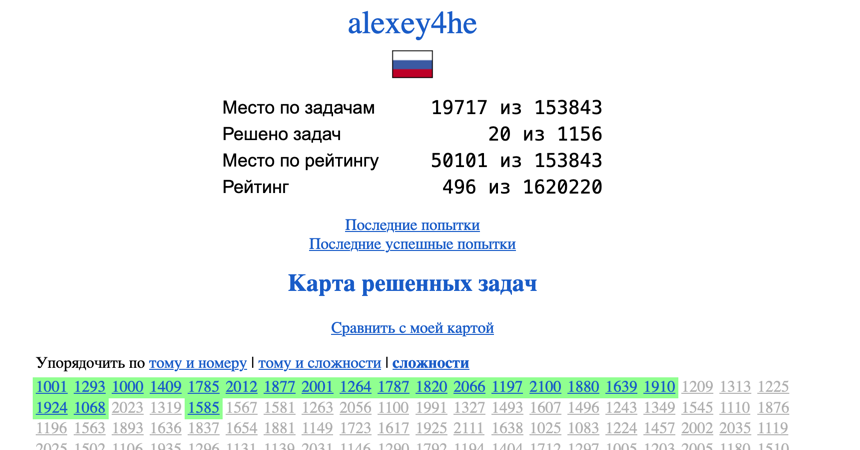
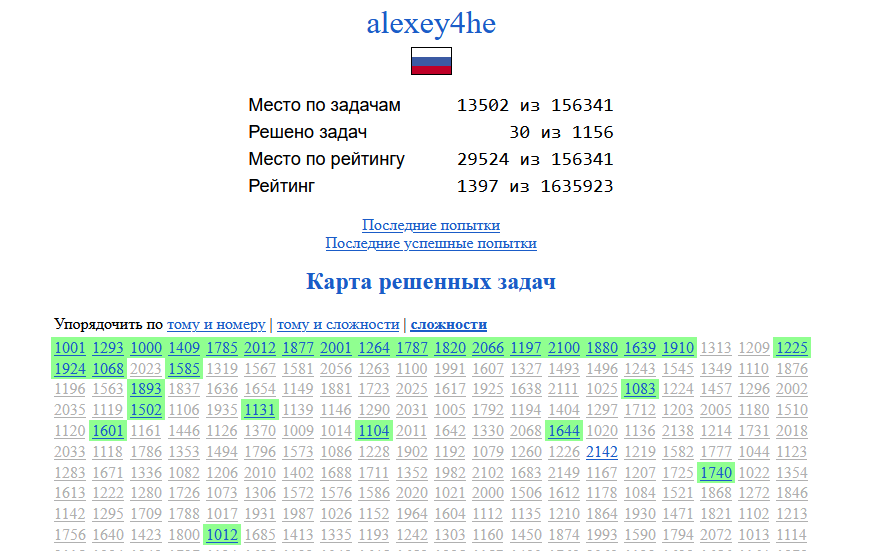
Solving 10 task with the Timus

Changed region(s): [[0.0302, 0.0, 0.9372, 1.0], [0.2419, 0.4044, 0.3326, 0.4356]]

diff --git a/src/timus/task_1893/Main.java b/src/timus/task_1893/Main.java
@@ -1,0 +1,44 @@
+package timus.task_1893;
+
+import java.util.Scanner;
+
+public class Main {
+    public static void main(String[] args) {
+        Scanner x = new Scanner(System.in);
+        String s = x.next();
+        char c;
+        int i = 0, h = 0;
+        while (s.charAt(i) - '0' >= 0 && s.charAt(i) - '0' <= 9) {
+            h = h * 10 + (s.charAt(i) - '0');
+            i++;
+        }
+        c = s.charAt(i);
+        if (h >= 1 && h <= 2) {
+            if (c == 'A' || c == 'D') {
+                System.out.println("window");
+                return;
+            } else {
+                System.out.println("aisle");
+                return;
+            }
+        }
+        if (h <= 20) {
+            if (c == 'A' || c == 'F') {
+                System.out.println("window");
+                return;
+            } else {
+                System.out.println("aisle");
+                return;
+            }
+        }
+        if (h <= 65) {
+            if (c == 'A' || c == 'K') {
+                System.out.println("window");
+            } else if (c == 'C' || c == 'D' || c == 'G' || c == 'H') {
+                System.out.println("aisle");
+            } else {
+                System.out.println("neither");
+            }
+        }
+    }
+}

diff --git a/src/timus/task_1104/Main.java b/src/timus/task_1104/Main.java
@@ -1,0 +1,38 @@
+package timus.task_1104;
+
+import java.io.BufferedReader;
+import java.io.IOException;
+import java.io.InputStreamReader;
+
+public class Main {
+    public static void main(String[] args) throws IOException {
+
+        InputStreamReader inputStreamReader = new InputStreamReader(System.in);
+        BufferedReader reader = new BufferedReader(inputStreamReader);
+        int result = solve(reader.readLine());
+        System.out.println( result != -1 ? result : "No solution.");
+
+        inputStreamReader.close();
+        reader.close();
+    }
+
+    public static int solve(String s){
+        long sum = 0;
+        int max = Integer.MIN_VALUE;
+        for (int i = 0; i < s.length(); i++) {
+            int number;
+            if (s.charAt(i) >= 'A' && s.charAt(i) <= 'Z') number =  s.charAt(i) - 'A' + 10;
+            else if (s.charAt(i) >= '0' && s.charAt(i) >= 9) number = s.charAt(i) - '0';
+            else break;
+            sum += number;
+            if (number > max) max = number;
+        }
+
+        if (max == 0) return 2;
+
+        for (int i = max; i <= 36; i++) {
+            if (sum % i == 0) return i + 1;
+        }
+        return -1;
+    }
+}

diff --git a/src/timus/task_1601/Main.java b/src/timus/task_1601/Main.java
@@ -1,0 +1,25 @@
+package timus.task_1601;
+
+import java.io.IOException;
+import java.io.OutputStreamWriter;
+import java.io.PrintWriter;
+
+public class Main {
+    public static void main(String[] args) throws IOException {
+        PrintWriter out = new PrintWriter(new OutputStreamWriter(System.out));
+        Byte b = 1;
+        int c;
+        while ((c = System.in.read()) != -1) {
+            char ch = (char) c;
+            if (b == 1) {
+                if (ch >= 'a' && ch <= 'z') ch = ((char) ((int) ch - 32));
+                if (ch >= 'A' && ch <= 'Z') b = 0;
+            } else {
+                if (ch >= 'A' && ch <= 'Z') ch = (char) ((int) ch + 32);
+            }
+            if (ch == '.' || ch == '!' || ch == '?') b = 1;
+            out.print(ch);
+        }
+        out.flush();
+    }
+}

diff --git a/src/timus/task_1644/Main.java b/src/timus/task_1644/Main.java
@@ -1,0 +1,29 @@
+package timus.task_1644;
+
+import java.util.Scanner;
+
+public class Main {
+    public static void main(String[] args) {
+        Scanner x = new Scanner(System.in);
+        int n = x.nextInt();
+        int max = Integer.MIN_VALUE, min = 10;
+        if (n == 0) {
+            System.out.println(10);
+            return;
+        }
+        for (int i = 0; i < n; i++) {
+            int d = x.nextInt();
+            String s = x.next();
+            if (s.equals("hungry")) {
+                if (d > max) max = d;
+            }
+            if (s.equals("satisfied")) {
+                if (d < min) min = d;
+            }
+        }
+        if (max >= min) {
+            System.out.println("Inconsistent");
+        } else
+            System.out.println(min);
+    }
+}

diff --git a/src/timus/task_1012/Main.java b/src/timus/task_1012/Main.java
@@ -1,0 +1,23 @@
+package timus.task_1012;
+
+import java.math.BigInteger;
+import java.util.Scanner;
+
+public class Main {
+    public static void main(String[] args) {
+        String k;
+        int i, n;
+        BigInteger[] a = new BigInteger[1801];
+        Scanner in = new Scanner(System.in);
+        n = in.nextInt();
+        k = in.next();
+        BigInteger e = new BigInteger(k);
+        BigInteger f1 = new BigInteger(String.valueOf(1));
+        a[0] = e.subtract(f1);
+        a[1] = e.multiply(a[0]);
+        for (i = 2; i < n; i++) {
+            a[i] = (a[i - 1].add(a[i - 2])).multiply(e.subtract(f1));
+        }
+        System.out.print(a[((n - 1))]);
+    }
+}

diff --git a/src/timus/task_1740/Main.java b/src/timus/task_1740/Main.java
@@ -1,0 +1,19 @@
+package timus.task_1740;
+
+import java.util.Scanner;
+
+public class Main {
+    public static void main(String[] args) {
+        Scanner x = new Scanner(System.in);
+        int k = x.nextInt(), l = x.nextInt(), h = x.nextInt(), d = 0;
+        float max = 0, min;
+        while (k > d) {
+            d += l;
+            max += h;
+        }
+        min = (k / l) * h;
+        System.out.printf("%.5f", min);
+        System.out.print(" ");
+        System.out.printf("%.5f", max);
+    }
+}

diff --git a/src/timus/task_1131/Main.java b/src/timus/task_1131/Main.java
@@ -1,0 +1,21 @@
+package timus.task_1131;
+
+import java.util.Scanner;
+
+public class Main {
+    public static void main(String[] args) {
+        Scanner x = new Scanner(System.in);
+        int n = x.nextInt();
+        int k = x.nextInt();
+        int time = 0, i = 1;
+        long s = 1;
+        while (s < k && s < n) {
+            s += s;
+            time++;
+        }
+        if (s < n) {
+            time += Math.ceil(1. * (n - s) / k);
+        }
+        System.out.println(time);
+    }
+}

diff --git a/src/timus/task_1502/Main.java b/src/timus/task_1502/Main.java
@@ -1,0 +1,18 @@
+package timus.task_1502;
+
+import java.util.Scanner;
+
+public class Main {
+    public static void main(String[] args) {
+        Scanner x = new Scanner(System.in);
+        int n = x.nextInt();
+        long s = 0;
+        for (int i = 0; i <= n; i++) {
+            for (int j = i; j <= n; j++) {
+                s += i;
+                s += j;
+            }
+        }
+        System.out.println(s);
+    }
+}

diff --git a/src/timus/task_1083/Main.java b/src/timus/task_1083/Main.java
@@ -1,0 +1,19 @@
+package timus.task_1083;
+
+import java.util.Scanner;
+
+public class Main {
+    public static void main(String[] args) {
+        long n, d = 1;
+        String s;
+        Scanner x = new Scanner(System.in);
+        n = x.nextInt();
+        s = x.next();
+        int len = s.length();
+        while (n > 0) {
+            d *= n;
+            n -= len;
+        }
+        System.out.print(d);
+    }
+}

diff --git a/src/timus/task_1225/Main.java b/src/timus/task_1225/Main.java
@@ -1,0 +1,15 @@
+package timus.task_1225;
+
+import java.util.Scanner;
+
+public class Main {
+    public static void main(String[] args) {
+        Scanner in = new Scanner(System.in);
+        int n = in.nextInt();
+        long a[] = new long[n + 1];
+        a[0] = 2;
+        a[1] = 2;
+        for (int i = 2; i < a.length; i++) a[i] = a[i - 2] + a[i - 1];
+        System.out.printf(String.valueOf(a[n - 1]));
+    }
+}
